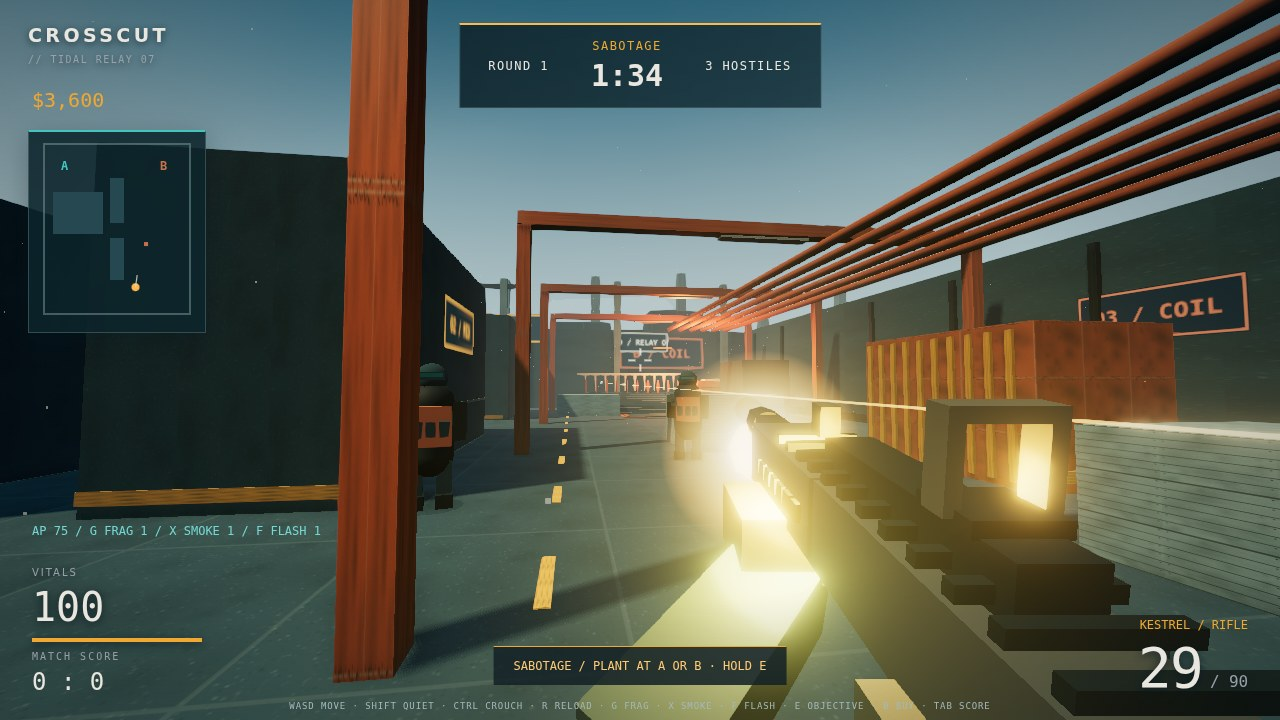
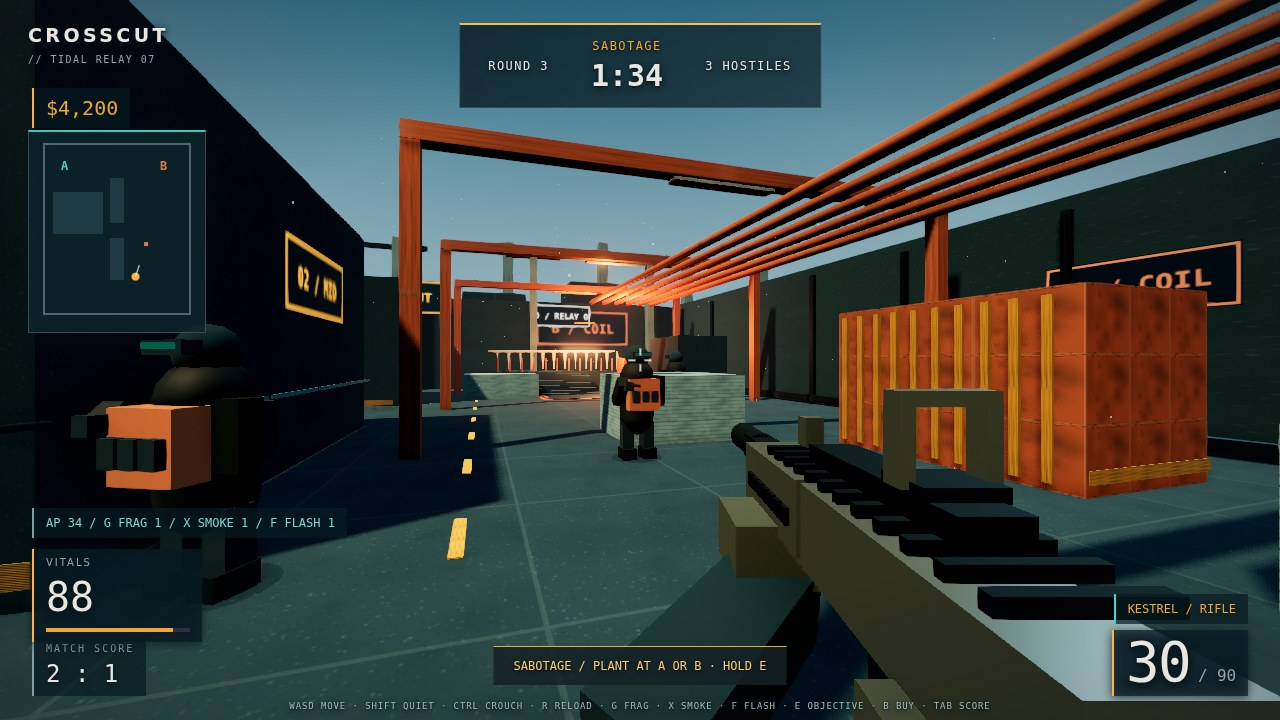
Presentation pass: framing, contrast, HUD legibility, recaptured frames

diff --git a/game/index.html b/game/index.html
@@ -494,7 +494,16 @@
       #scoreboard { position:absolute; z-index:30; top:20%; left:20%; width:60%; padding:28px; background:#142c34f2; border:1px solid #ffb84b; color:#dfdfcc; font:14px monospace; }
       #scoreboard[hidden], #damage-bearing[hidden] { display:none; }
       #damage-bearing { position:absolute; top:50%; left:50%; width:160px; height:160px; border-top:5px solid #ff7054; border-radius:50%; pointer-events:none; }
-      #hud { background:radial-gradient(ellipse at center, transparent 48%, #07182055 100%); }
+      #hud { background:radial-gradient(ellipse at center, transparent 50%, #04121a5c 100%); text-shadow:0 1px 3px #04121a,0 2px 9px #04121a; }
+      #topbar, #radar, #objective, #health, #ammo, #score, #money, #weapon-status, #armour, #feed, #identity, #banner { text-shadow:0 1px 3px #04121a,0 2px 10px #04121a; }
+      #health, #ammo, #score, #money, #weapon-status, #armour { background:#071a21b8; border-left:2px solid #ffb23d; padding:8px 12px; }
+      #weapon-status { border-left-color:#38d6cf; }
+      #score, #armour { border-left-color:#7f9ea3; }
+      #health { padding-bottom:10px; }
+      #ammo { padding:4px 12px 6px; }
+      #weapon-status { bottom:96px; }
+      #hitmarker.on { filter:drop-shadow(0 0 6px #ffb23d); }
+      #damage-bearing { width:190px; height:190px; border-top-width:7px; filter:drop-shadow(0 0 6px #ff7054aa); }
       #topbar { background:linear-gradient(110deg,#10262eea,#18343ddd); border:1px solid #b3c7c52e; border-top:2px solid #ffb84b; }
       #radar { background:#0d242be0; border-top:2px solid #42c5bf; box-shadow:0 8px 30px #07182055; }
       #health, #ammo { filter:drop-shadow(0 2px 5px #071820); }
@@ -507,7 +516,7 @@
       #buy button b { color:#ffb84b;white-space:nowrap; }
       body:has(#buy:not([hidden])) #game { filter:blur(5px); }
       #overlay { background:linear-gradient(90deg,#091b24ed 0%,#102630b8 48%,#10263018 100%);place-items:center start;padding:60px 7vw; }
-      .briefing { width:min(650px,100%);border-left:3px solid #ffb84b;padding:10px 0 12px 30px; }
+      .briefing { width:min(650px,100%);border-left:3px solid #ffb23d;padding:10px 0 12px 30px;text-shadow:0 2px 12px #04121a,0 1px 3px #04121a; }
       .eyebrow { font:11px var(--font-readout);letter-spacing:.23em;color:#65d5cf; }
       .briefing h1 { font-size:clamp(42px,7vw,90px);letter-spacing:.08em;line-height:1;margin:22px 0 14px;font-weight:900; }
       .briefing p { font-size:21px;color:#c1d2d2;margin:0 0 25px; }
@@ -518,9 +527,9 @@
       #screen-actions button { background:#18323d;color:#e9e6df;border:1px solid #7b969b;padding:12px 24px;cursor:pointer;font:13px var(--font-readout); }
       #play { border-radius:0;font:14px var(--font-readout);letter-spacing:.1em;padding:18px 24px; }
       .screen-footer { position:absolute;bottom:28px;left:7vw;right:7vw;color:#8aa8ad;font:10px var(--font-readout);letter-spacing:.18em;display:flex;justify-content:space-between; }
-      .result-score { font:70px var(--font-readout);color:#ffb84b;margin:18px 0; }
-      .result-stats { display:flex;gap:30px;margin:20px 0 30px;font:11px var(--font-readout);color:#9bb4bb; }
-      .result-stats b { display:block;color:#fff;font-size:28px;margin-bottom:8px; }
+      .result-score { font:84px var(--font-readout);color:#ffb23d;margin:14px 0;text-shadow:0 0 28px #ffb23d55,0 3px 10px #04121a; }
+      .result-stats { display:flex;gap:34px;margin:20px 0 30px;font:12px var(--font-readout);color:#b7cdd0; }
+      .result-stats b { display:block;color:#fff;font-size:30px;margin-bottom:8px; }
       #hud[hidden] { display:none; }
     </style>
   </head>

diff --git a/game/src/effects.js b/game/src/effects.js
@@ -1,5 +1,4 @@
-// effects.js — owns the transient impact particles and tracer beams, their
-// pooling-free lifetime bookkeeping and their disposal.
+// effects.js — owns transient impact particles and tracer beams with pooled lifetime bookkeeping.
 import {
   Group,
   Mesh,
@@ -10,25 +9,29 @@ import {
   AdditiveBlending,
 } from "three";
 
-const SPARK_COLOR = "#ffcb76";
-const DUST_COLOR = "#a8ada0";
-const BLOOD_COLOR = "#9b2925";
+const SPARK_COLOR = "#ffd489";
+const DUST_COLOR = "#b6bcae";
+const BLOOD_COLOR = "#c92a22";
 
-const BURST_PARTICLE_COUNT = 17;
-const BURST_SPARK_COUNT = 8;
+const BURST_PARTICLE_COUNT = 22;
+const BURST_SPARK_COUNT = 9;
 const BURST_VELOCITY_SPREAD = 2;
 const BURST_VELOCITY_LIFT = 0.2;
 const BURST_SPAWN_OFFSET = 0.08;
-const SPARK_SCALE = 0.018;
-const DUST_SCALE_BASE = 0.035;
-const DUST_SCALE_JITTER = 0.035;
-const SPARK_LIFETIME = 0.28;
-const DUST_LIFETIME = 0.65;
+const SPARK_SCALE = 0.024;
+const DUST_SCALE_BASE = 0.042;
+const DUST_SCALE_JITTER = 0.04;
+const BLOOD_SCALE_BASE = 0.05;
+const BLOOD_SCALE_JITTER = 0.04;
+const IMPACT_FLASH_SCALE = 0.11;
+const IMPACT_FLASH_LIFETIME = 0.14;
+const SPARK_LIFETIME = 0.32;
+const DUST_LIFETIME = 0.7;
 const GRAVITY = 1.5;
 
-const TRACER_RADIUS = 0.008;
+const TRACER_RADIUS = 0.02;
 const TRACER_SEGMENTS = 5;
-const TRACER_LIFETIME = 0.09;
+const TRACER_LIFETIME = 0.18;
 const TRACER_AXIS = new Vector3(0, 1, 0);
 
 const MAX_FRAME_STEP = 0.05;
@@ -95,11 +98,19 @@ export function createEffects(scene) {
         (Math.random() - 0.5) * BURST_VELOCITY_SPREAD,
       );
       mesh.position.copy(point).addScaledVector(velocity, BURST_SPAWN_OFFSET);
-      mesh.scale.setScalar(
-        kind === "spark" ? SPARK_SCALE : DUST_SCALE_BASE + Math.random() * DUST_SCALE_JITTER,
-      );
+      let scale;
+      if (kind === "spark") scale = SPARK_SCALE;
+      else if (kind === "blood") scale = BLOOD_SCALE_BASE + Math.random() * BLOOD_SCALE_JITTER;
+      else scale = DUST_SCALE_BASE + Math.random() * DUST_SCALE_JITTER;
+      mesh.scale.setScalar(scale);
       add(mesh, velocity, kind === "spark" ? SPARK_LIFETIME : DUST_LIFETIME);
     }
+
+    // A single additive flare makes the impact read even at distance.
+    const flare = new Mesh(sharedSphere, materials.spark.clone());
+    flare.position.copy(point);
+    flare.scale.setScalar(IMPACT_FLASH_SCALE);
+    add(flare, new Vector3(), IMPACT_FLASH_LIFETIME);
   }
 
   /**

diff --git a/game/src/main.js b/game/src/main.js
@@ -1,6 +1,4 @@
-// main.js — owns application bootstrap: renderer, scene, camera, post stack,
-// subsystem wiring, the frame loop and the tooling entry point. Simulation
-// itself advances in simulation.js.
+// main.js — owns bootstrap: renderer, scene, camera, post stack, subsystem wiring and frame loop.
 import {
   Color,
   WebGLRenderer,
@@ -19,6 +17,8 @@ import { GTAOPass } from "../vendor/addons/postprocessing/GTAOPass.min.js";
 import { UnrealBloomPass } from "../vendor/addons/postprocessing/UnrealBloomPass.min.js";
 import { SMAAPass } from "../vendor/addons/postprocessing/SMAAPass.min.js";
 import { OutputPass } from "../vendor/addons/postprocessing/OutputPass.min.js";
+import { ShaderPass } from "../vendor/addons/postprocessing/ShaderPass.min.js";
+import { BrightnessContrastShader } from "../vendor/addons/shaders/BrightnessContrastShader.min.js";
 import { createAtmosphere } from "./atmosphere.js";
 import { createEffects } from "./effects.js";
 import { PALETTE } from "./palette.js";
@@ -42,17 +42,18 @@ const MAX_PIXEL_RATIO = 2;
 const CAMERA_FOV = 74;
 const CAMERA_NEAR = 0.05;
 const CAMERA_FAR = 100;
-const TONE_MAPPING_EXPOSURE = 1.05;
-const FOG_DENSITY = 0.012;
+const TONE_MAPPING_EXPOSURE = 1.12;
+const FOG_DENSITY = 0.0085;
 const PCF_SHADOW_REVISION = 187;
 
-const AO_BLEND_INTENSITY = 0.55;
+const AO_BLEND_INTENSITY = 0.7;
 const AO_SAMPLES = 8;
 const AO_RADIUS = 0.35;
-const BLOOM_STRENGTH = 0.35;
-const BLOOM_RADIUS = 0.6;
-const BLOOM_THRESHOLD = 0.85;
+const BLOOM_STRENGTH = 0.5;
+const BLOOM_RADIUS = 0.55;
+const BLOOM_THRESHOLD = 0.9;
 const AO_DOWNSCALE = 2;
+const GRADE_CONTRAST = 0.09;
 
 const MAX_CAMERA_PITCH = 1.5;
 
@@ -107,6 +108,11 @@ composer.addPass(
 );
 composer.addPass(new SMAAPass());
 composer.addPass(new OutputPass());
+// Final grade separates the lit play space from the sky and the far walls.
+const grade = new ShaderPass(BrightnessContrastShader);
+grade.uniforms.brightness.value = 0;
+grade.uniforms.contrast.value = GRADE_CONTRAST;
+composer.addPass(grade);
 // AO is deliberately half-resolution; final colour and antialiasing stay full-resolution.
 ao.setSize(Math.ceil(innerWidth / AO_DOWNSCALE), Math.ceil(innerHeight / AO_DOWNSCALE));
 

diff --git a/game/src/bots.js b/game/src/bots.js
@@ -1,5 +1,4 @@
-// bots.js — owns sentinel navigation, perception, engagement, cover seeking
-// and the damage resolution that connects hitscan to sentinel records.
+// bots.js — owns sentinel navigation, perception, engagement, cover and damage resolution.
 import { Vector3 } from "three";
 import { createActors } from "./actors.js";
 import { createHitboxes } from "./hitboxes.js";
@@ -43,6 +42,8 @@ const ALERT_REACTION_NOISE = 0.45;
 const ALERT_REACTION_SIGHT = 0.5;
 
 const MUZZLE_FLASH_SECONDS = 0.06;
+const FLINCH_SECONDS = 0.22;
+const FLINCH_TILT = 0.3;
 const INACCURACY_BASE = 0.1;
 const INACCURACY_STILL = 0.035;
 const BOT_DAMAGE = 12;
@@ -183,6 +184,8 @@ export function createBots(scene, state, world, random, audio) {
   function updateFlashAndDeath(bot, dt) {
     bot.flashTime = Math.max(0, bot.flashTime - dt);
     bot.flash.visible = bot.flashTime > 0;
+    bot.flinch = Math.max(0, bot.flinch - dt);
+    if (bot.mode !== "dead") bot.mesh.rotation.x = -FLINCH_TILT * (bot.flinch / FLINCH_SECONDS);
     if (bot.mode !== "dead") return false;
     bot.mesh.rotation.z = Math.min(DEATH_FALL_MAX, bot.mesh.rotation.z + dt * DEATH_FALL_RATE);
     return true;
@@ -469,6 +472,7 @@ export function createBots(scene, state, world, random, audio) {
     selected.armour -= absorbed;
     state.stats.damage += Math.min(selected.health, damage - absorbed);
     selected.health -= damage - absorbed;
+    selected.flinch = FLINCH_SECONDS;
     state.hit = HIT_FLASH_SECONDS;
 
     const hitPoint = origin.clone().addScaledVector(dir, nearest);

diff --git a/game/src/world.js b/game/src/world.js
@@ -1,6 +1,4 @@
-// world.js — owns the relay map shell, its collision boxes and the
-// allocation-free overlap, sight and support queries used by movement, bots,
-// grenades and hit resolution.
+// world.js — owns the relay map shell, colliders and allocation-free overlap, sight and support queries.
 import { createScenery } from "./scenery.js";
 import { surface } from "./textures.js";
 import {
@@ -35,11 +33,14 @@ const CATWALK_STEP_STEP = 0.4;
 const REAR_STEP_X = 8;
 const REAR_STEP_START_Z = -10.9;
 
-const HEMISPHERE_SKY = "#b6d9ec";
-const HEMISPHERE_INTENSITY = 1.3;
-const SUN_COLOR = "#ffe1ab";
-const SUN_INTENSITY = 3.1;
+const HEMISPHERE_SKY = "#9fc8dd";
+const HEMISPHERE_INTENSITY = 1.0;
+const SUN_COLOR = "#ffe6b6";
+const SUN_INTENSITY = 3.9;
 const SUN_POSITION = { x: -15, y: 23, z: 8 };
+const FILL_COLOR = "#93c9de";
+const FILL_INTENSITY = 0.8;
+const FILL_POSITION = { x: 14, y: 10, z: -6 };
 const SUN_SHADOW_MAP = 2048;
 const SUN_SHADOW_EXTENT = 25;
 const SUN_SHADOW_FAR = 70;
@@ -197,6 +198,11 @@ function buildLighting(scene) {
   sun.shadow.bias = SUN_SHADOW_BIAS;
   sun.shadow.radius = SUN_SHADOW_RADIUS;
   scene.add(sun);
+
+  // Cool east fill keeps the shadowed lane readable without flattening the key light.
+  const fill = new DirectionalLight(FILL_COLOR, FILL_INTENSITY);
+  fill.position.set(FILL_POSITION.x, FILL_POSITION.y, FILL_POSITION.z);
+  scene.add(fill);
 }
 
 /**

diff --git a/game/src/actors.js b/game/src/actors.js
@@ -1,5 +1,4 @@
-// actors.js — owns the sentinel mesh construction and the startup actor
-// records that bots.js mutates each round.
+// actors.js — owns sentinel meshes, rig parts and the startup actor records bots.js mutates.
 import {
   Group,
   Mesh,
@@ -82,6 +81,8 @@ function createSentinelMaterials() {
  */
 function buildSentinelMesh(materials, geometry) {
   const mesh = new Group();
+  // Yaw first so a hit flinch pitches relative to the sentinel's facing.
+  mesh.rotation.order = "YXZ";
 
   const body = new Mesh(geometry.body, materials.body);
   body.position.y = BODY_Y;
@@ -94,7 +95,7 @@ function buildSentinelMesh(materials, geometry) {
   const right = new Mesh(geometry.leg, materials.dark);
   right.position.set(BOOT_OFFSET_X, 0.3, 0);
   const flash = new Mesh(
-    new SphereGeometry(0.13, 5, 4),
+    new SphereGeometry(0.18, 6, 4),
     new MeshBasicMaterial({ color: PALETTE.accent }),
   );
   flash.position.set(MUZZLE_POSITION.x, MUZZLE_POSITION.y, MUZZLE_POSITION.z);
@@ -230,6 +231,7 @@ function registerSentinel(state, rig, index) {
     coverX: 0,
     coverZ: 0,
     flashTime: 0,
+    flinch: 0,
     gait: 0,
     lastX: 0,
     lastZ: 0,

diff --git a/game/src/viewmodel.js b/game/src/viewmodel.js
@@ -1,5 +1,4 @@
-// viewmodel.js — owns the startup allocation of the first-person weapon mesh,
-// its muzzle flash sprite, its flash light and the gloved hands.
+// viewmodel.js — owns the first-person weapon mesh, muzzle flash, flash light and gloved hands.
 import {
   Group,
   Mesh,
@@ -22,11 +21,11 @@ const VIEWMODEL_OFFSET = { x: 0.24, y: -0.2, z: -0.42 };
 const MUZZLE_FLASH_OFFSET = { x: 0.24, y: -0.18, z: -0.95 };
 const FLASH_LIGHT_OFFSET = { x: 0.24, y: -0.16, z: -0.6 };
 const FLASH_LIGHT_RANGE = 5;
-const FLASH_SPHERE_RADIUS = 0.065;
+const FLASH_SPHERE_RADIUS = 0.095;
 const FLASH_SPHERE_WIDTH = 6;
 const FLASH_SPHERE_HEIGHT = 4;
-const FLASH_OPACITY = 0.9;
-const FLASH_SPRITE_SCALE = 0.4;
+const FLASH_OPACITY = 0.95;
+const FLASH_SPRITE_SCALE = 0.6;
 const FLASH_TEXTURE_SIZE = 128;
 const FLASH_TEXTURE_CENTER = 64;
 

diff --git a/game/src/palette.js b/game/src/palette.js
@@ -1,5 +1,4 @@
-// palette.js — owns the tidal-station colour vocabulary shared by the scene,
-// the scenery dressing, the particle systems and the DOM HUD.
+// palette.js — owns the tidal-station colour vocabulary shared by scene, scenery, particles and HUD.
 
 /**
  * Single source of truth for every colour the game draws with.
@@ -8,14 +7,14 @@
  * @type {Record<string, string>}
  */
 export const PALETTE = {
-  canvas: "#789ca7",
-  surface: "#264851",
-  hairline: "#385761",
-  ink: "#dfdfcc",
-  muted: "#7b9c9c",
-  accent: "#ffb84b",
-  teal: "#42c5bf",
-  rust: "#c9704c",
-  sky: "#9db8be",
-  dark: "#142c34",
+  canvas: "#6d96a2",
+  surface: "#1e3b45",
+  hairline: "#2c4a55",
+  ink: "#f5f1e7",
+  muted: "#8fb0b0",
+  accent: "#ffb23d",
+  teal: "#38d6cf",
+  rust: "#d97850",
+  sky: "#7b98a2",
+  dark: "#0d2128",
 };

diff --git a/game/src/hud.js b/game/src/hud.js
@@ -1,5 +1,4 @@
-// hud.js — owns the DOM HUD, the radar, the damage bearing, the scoreboard and
-// the round banner. Every value it shows comes from the shared state.
+// hud.js — owns the DOM HUD, radar, damage bearing, scoreboard and round banner.
 import { WEAPONS } from "./equipment.js";
 import { PALETTE } from "./palette.js";
 
@@ -23,7 +22,7 @@ const RADAR_LABEL = { font: "bold 12px monospace", baselineY: 30, aX: 24, bX: 12
 
 const CROSSHAIR_BASE = 22;
 const CROSSHAIR_SPREAD_SCALE = 650;
-const DAMAGE_FLASH_SCALE = 2;
+const DAMAGE_FLASH_SCALE = 2.6;
 
 const SECONDS_PER_MINUTE = 60;
 const PLANT_PERCENT_BASE = 3;

diff --git a/game/src/weapon.js b/game/src/weapon.js
@@ -1,5 +1,4 @@
-// weapon.js — owns weapon handling: viewmodel sway, finite ammo, hitscan
-// resolution with pellet spread, recoil delivery and the reload animation.
+// weapon.js — owns viewmodel sway, finite ammo, hitscan spread, recoil and reload animation.
 import { WEAPONS } from "./equipment.js";
 import { Vector3 } from "three";
 import { createViewmodel } from "./viewmodel.js";

diff --git a/game/src/screens.js b/game/src/screens.js
@@ -1,5 +1,4 @@
-// screens.js — owns the title, pause and results overlays plus the navigation
-// between them, including pointer-lock release and input clearing.
+// screens.js — owns the title, pause and results overlays and navigation between them.
 const TITLE_HEADING = "CROSSCUT";
 const TITLE_COPY = "Cut the power. Hold the line.";
 const TITLE_BUTTON = "PRESS ENTER TO DEPLOY";

diff --git a/game/src/visibility.js b/game/src/visibility.js
@@ -1,5 +1,4 @@
-// visibility.js — owns the allocation-free perception queries shared by bots:
-// smoke line-of-sight denial and the flash cone blindness test.
+// visibility.js — owns smoke line-of-sight denial and flash-cone blindness queries.
 
 const SMOKE_BLOCK_RADIUS = 4;
 const SMOKE_BLOCK_RADIUS_SQUARED = SMOKE_BLOCK_RADIUS * SMOKE_BLOCK_RADIUS;
